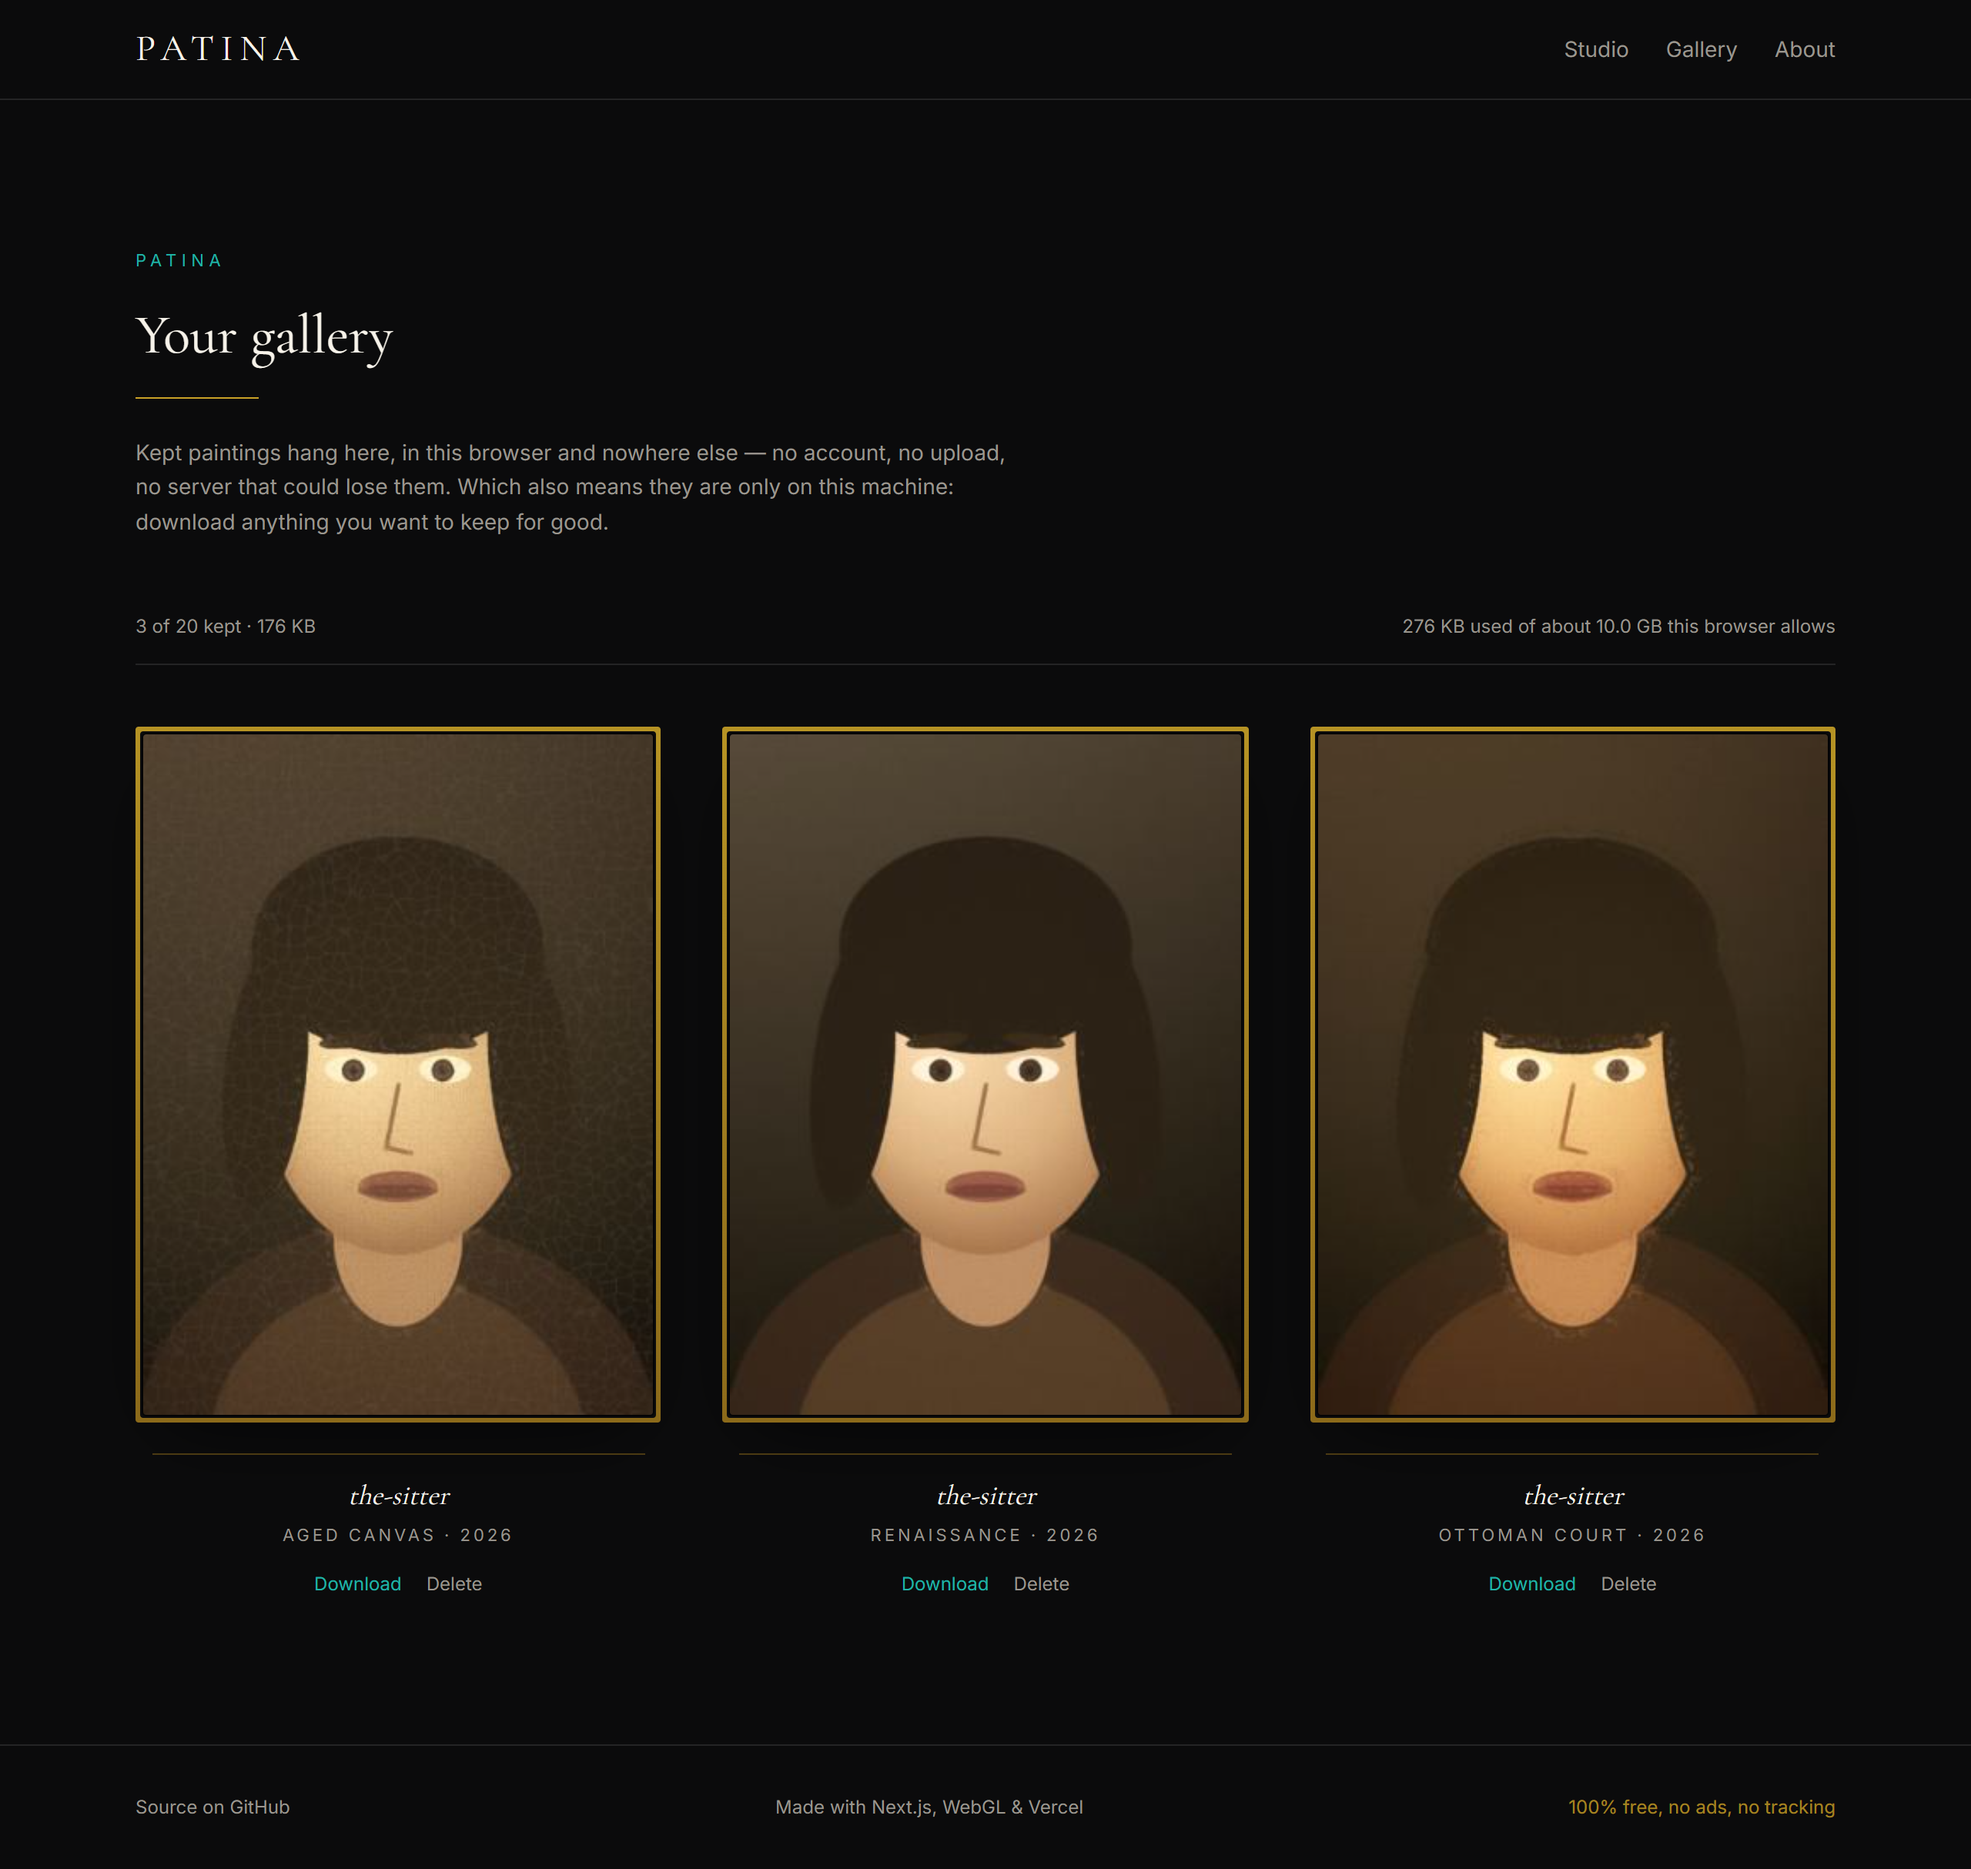
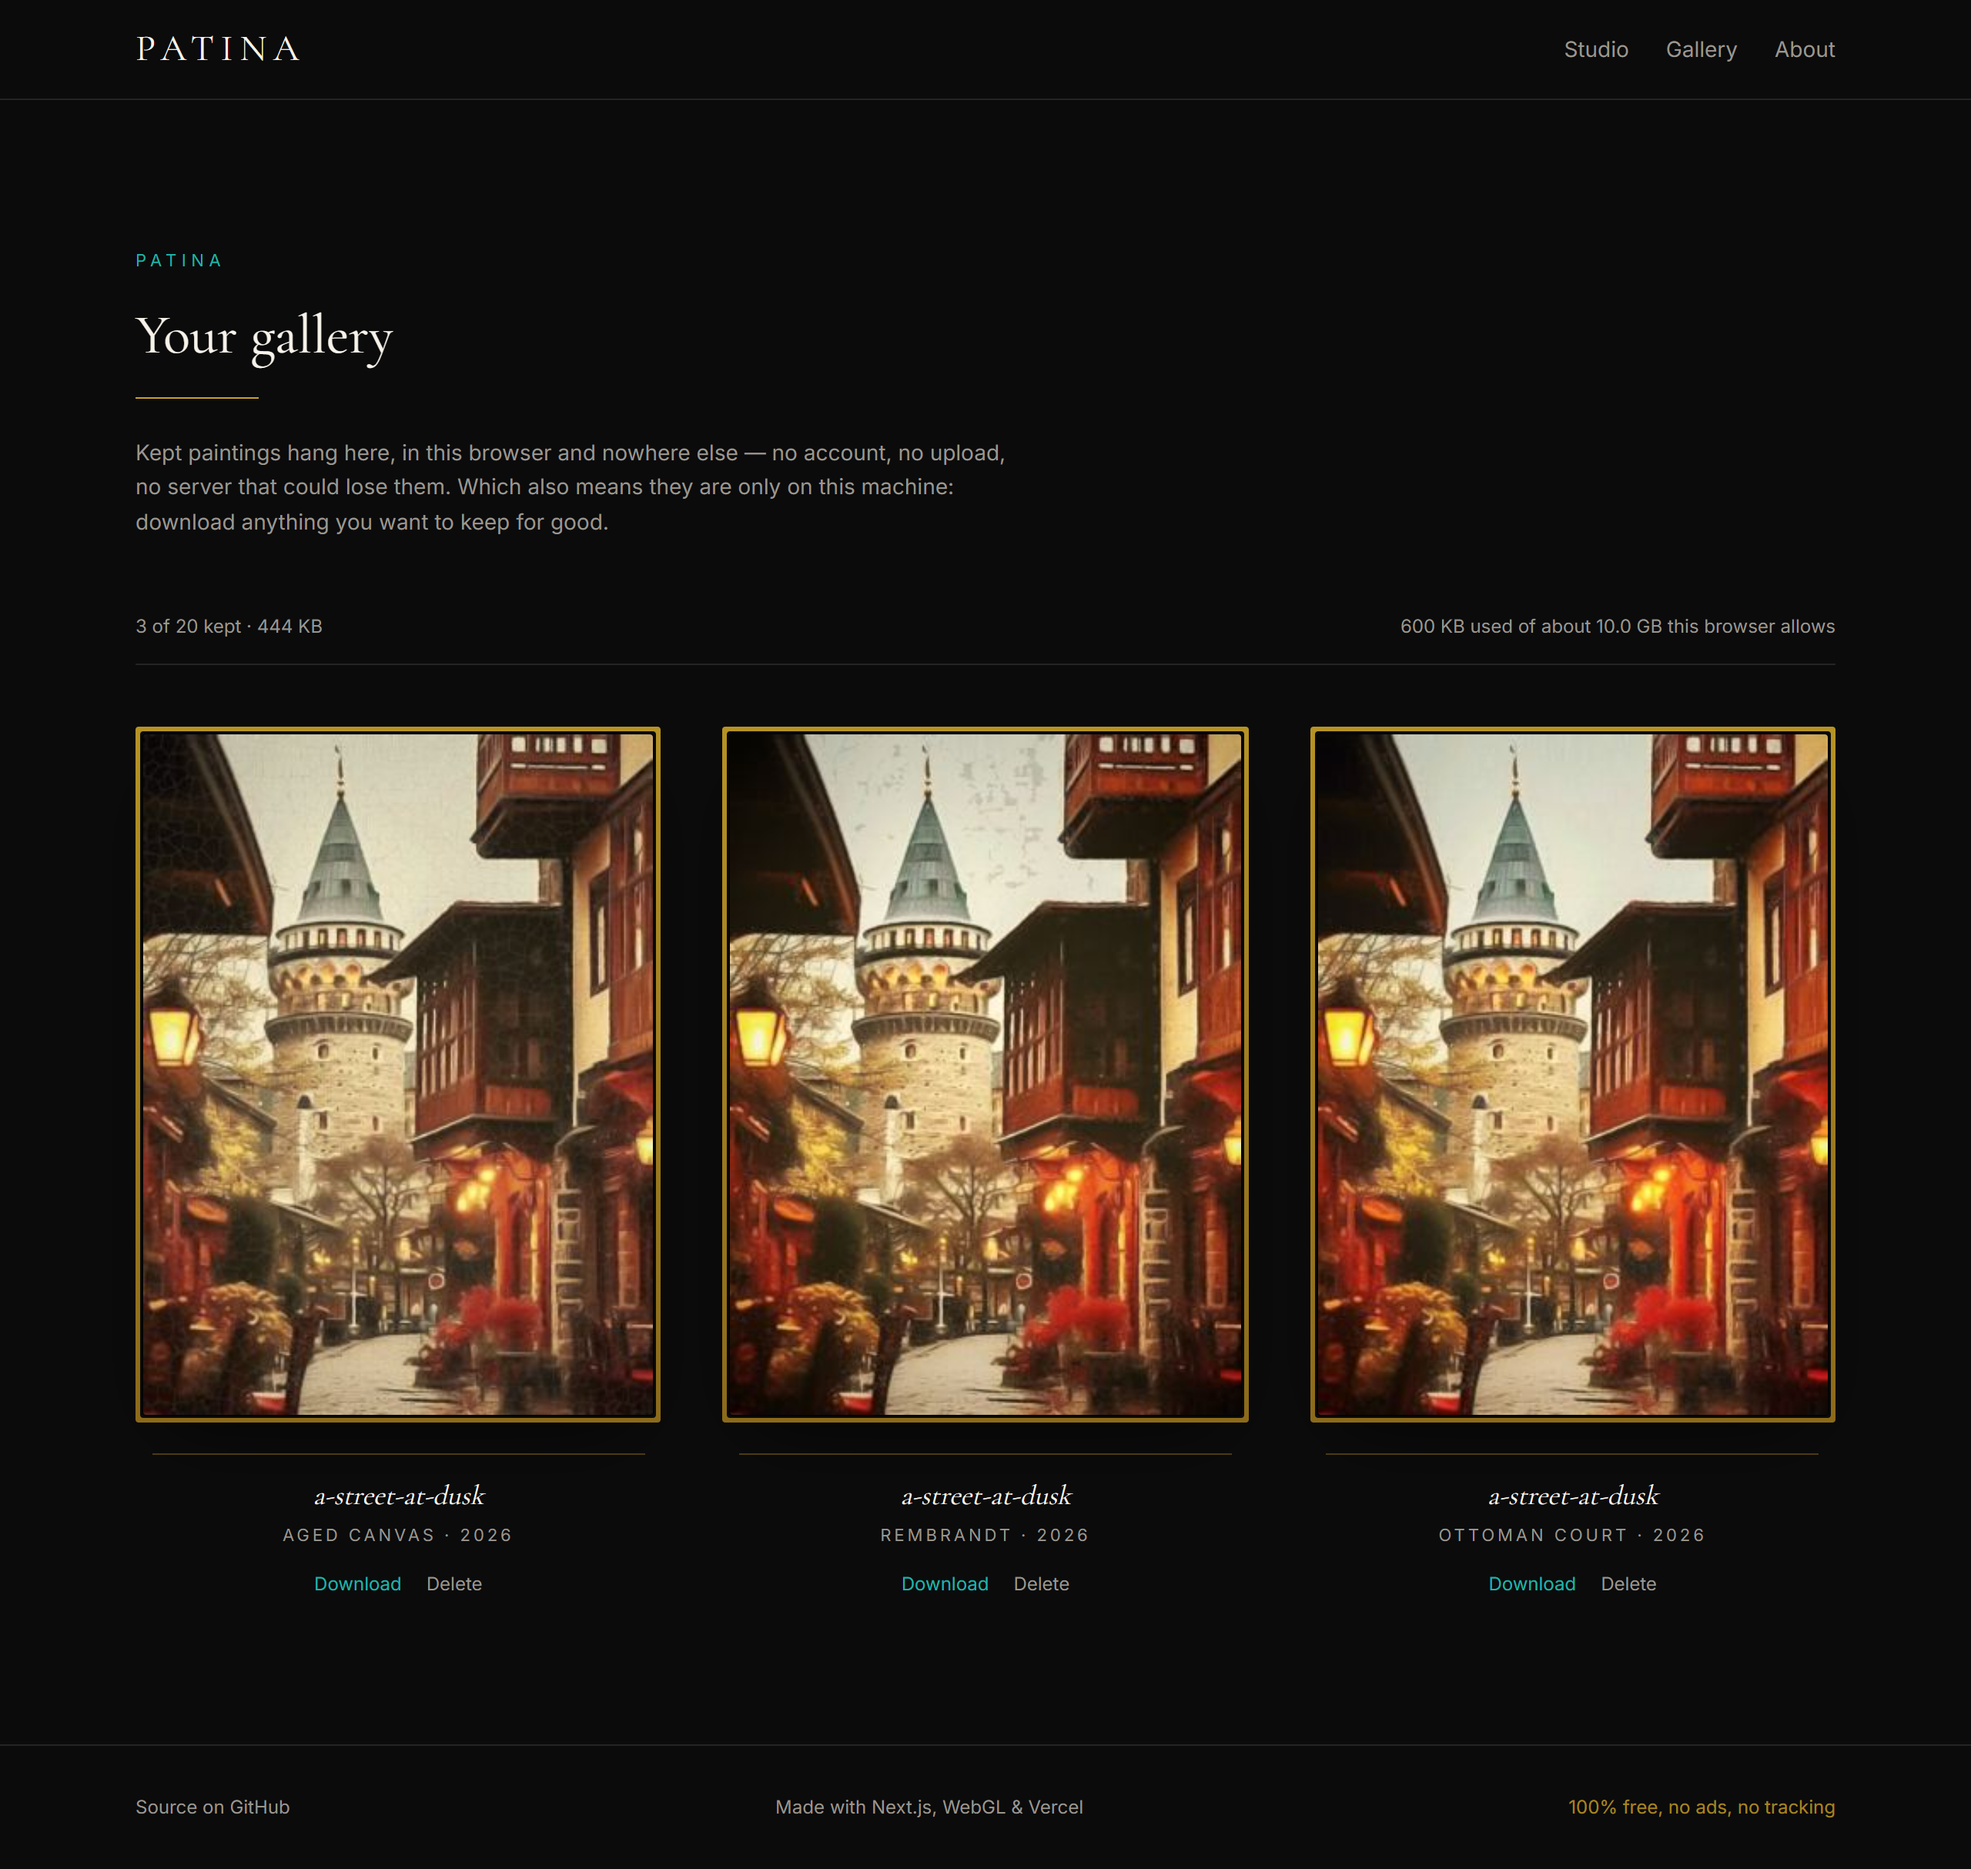
feat(landing): the example is the engine's own work now
SampleArtwork was a hand-drawn SVG, put there in FAZ 1 because the engine
did not exist yet, and left there long after it did. A site that paints
photographs was showing an imitation of its own output above the fold.

Aliyev supplied a photograph - a cobbled street at dusk below the Galata
tower, which is about the best case this engine has: warm lamps, stone,
wet ground, wood. It was cropped to 3:4 off the bottom so the tower and
the street both survive, then painted on the live site at the Ottoman
Court preset, and the right-hand half came out through the site's own
download button. What the landing page shows is exactly what a visitor
would get.

The split is a clip rather than two boxes side by side, so both halves
occupy the same frame and the seam falls on the same lamp in each.

Lighthouse on the production build with the images in place: 100 across
all four, LCP 0.7s, no layout shift. The uses-responsive-images audit asks
for 94KiB back and is being ignored on purpose - the files are 800px for a
384px slot because retina screens want 2x, and Lighthouse measures at 1x.
Taking that saving would mean a blurry phone.

Also: the README screenshots are the same street now rather than a canvas
drawing, with the gallery showing one photograph under three different
schools; and the five create-next-app SVGs nobody ever referenced are gone
from public/.

Unresolved, and Aliyev's call: whether the photograph is his to publish.

Changed region(s): [[0.0625, 0.3707, 0.9375, 0.834], [0.125, 0.3089, 0.1562, 0.3398]]

diff --git a/components/SampleArtwork.tsx b/components/SampleArtwork.tsx
@@ -1,164 +1,70 @@
-/**
- * Placeholder "before / after" example for the landing page.
- *
- * Drawn as inline SVG on purpose: nothing to download, no layout shift, and it
- * stays sharp at any size. FAZ 3 replaces it with two real photographs once
- * the engine can actually produce the right-hand side.
- *
- * Left half is the photograph (cool, flat, even). Right half is what Patina is
- * aiming at: warm highlights, umber shadows, a canvas weave over the top.
- */
-function Figure({
-  bgTop,
-  bgBottom,
-  skin,
-  skinShadow,
-  hair,
-  cloth,
-}: {
-  bgTop: string;
-  bgBottom: string;
-  skin: string;
-  skinShadow: string;
-  hair: string;
-  cloth: string;
-}) {
-  return (
-    <>
-      <rect x="0" y="0" width="480" height="600" fill={`url(#${bgTop})`} />
-      <rect x="0" y="0" width="480" height="600" fill={`url(#${bgBottom})`} />
-      {/* shoulders */}
-      <path d="M90 600 Q110 440 240 428 Q370 440 390 600 Z" fill={cloth} />
-      {/* neck */}
-      <path d="M205 380 h70 v60 q-35 22 -70 0 Z" fill={skinShadow} />
-      {/* head */}
-      <ellipse cx="240" cy="290" rx="92" ry="112" fill={skin} />
-      {/* shadow side of the face */}
-      <path
-        d="M240 178 a92 112 0 0 1 0 224 a74 112 0 0 0 0 -224 Z"
-        fill={skinShadow}
-        opacity="0.75"
-      />
-      {/* hair */}
-      <path
-        d="M148 288 Q142 168 240 164 Q338 168 332 288 Q320 232 240 222 Q160 232 148 288 Z"
-        fill={hair}
-      />
-    </>
-  );
-}
+import Image from "next/image";
+import photo from "@/public/sample-photo.jpg";
+import painting from "@/public/sample-painting.jpg";
 
+/**
+ * The example on the landing page: one photograph, split down the middle,
+ * with the right half painted.
+ *
+ * This used to be a hand-drawn SVG, put here in FAZ 1 because the engine did
+ * not exist yet. It stayed long after the engine did, which meant a site that
+ * paints photographs was showing an imitation of its own output above the
+ * fold. These two files are the real thing — the right half came out of the
+ * site's own download button, at the Ottoman Court preset, so what a visitor
+ * sees here is exactly what they would get.
+ *
+ * The split is a clip rather than two boxes side by side: both images occupy
+ * the same frame, so the seam falls on the same feature in each half and the
+ * eye can compare a lamp to a lamp.
+ *
+ * Static, with no slider. The studio has a draggable comparison already; this
+ * is a shop window, and a landing page should not need JavaScript to make its
+ * point.
+ */
 export default function SampleArtwork({
   className = "",
 }: {
   className?: string;
 }) {
   return (
-    <svg
-      viewBox="0 0 480 600"
-      className={className}
-      role="img"
-      aria-label="Example: a portrait photograph on the left, the same portrait rendered as an oil painting on the right."
-    >
-      <defs>
-        <linearGradient id="coolTop" x1="0" y1="0" x2="0" y2="1">
-          <stop offset="0%" stopColor="#3a3f47" />
-          <stop offset="100%" stopColor="#1b1d22" />
-        </linearGradient>
-        <linearGradient id="coolBottom" x1="0" y1="0" x2="0" y2="1">
-          <stop offset="0%" stopColor="transparent" />
-          <stop offset="100%" stopColor="#101216" />
-        </linearGradient>
-        <linearGradient id="warmTop" x1="0.2" y1="0" x2="0.9" y2="1">
-          <stop offset="0%" stopColor="#5a4320" />
-          <stop offset="60%" stopColor="#241a0c" />
-          <stop offset="100%" stopColor="#120c05" />
-        </linearGradient>
-        <linearGradient id="warmBottom" x1="0" y1="0" x2="0" y2="1">
-          <stop offset="0%" stopColor="transparent" />
-          <stop offset="100%" stopColor="#0b0702" />
-        </linearGradient>
+    <div className={`relative aspect-3/4 overflow-hidden ${className}`}>
+      <Image
+        src={painting}
+        alt="The same street, repainted by Patina as an oil painting"
+        fill
+        sizes="(max-width: 640px) 100vw, 384px"
+        className="object-cover"
+        placeholder="blur"
+        priority
+      />
 
-        {/* Procedural canvas weave — the same idea the real shader uses. */}
-        <filter id="weave" x="0" y="0" width="100%" height="100%">
-          <feTurbulence
-            type="fractalNoise"
-            baseFrequency="0.9"
-            numOctaves="2"
-            result="noise"
-          />
-          <feColorMatrix type="saturate" values="0" in="noise" result="grey" />
-        </filter>
+      <Image
+        src={photo}
+        alt="A photograph of a cobbled street at dusk"
+        fill
+        sizes="(max-width: 640px) 100vw, 384px"
+        className="object-cover [clip-path:inset(0_50%_0_0)]"
+        placeholder="blur"
+        priority
+      />
 
-        <clipPath id="leftHalf">
-          <rect x="0" y="0" width="240" height="600" />
-        </clipPath>
-        <clipPath id="rightHalf">
-          <rect x="240" y="0" width="240" height="600" />
-        </clipPath>
-
-        <radialGradient id="vignette" cx="0.5" cy="0.42" r="0.75">
-          <stop offset="55%" stopColor="transparent" />
-          <stop offset="100%" stopColor="#000000" stopOpacity="0.75" />
-        </radialGradient>
-      </defs>
-
-      <g clipPath="url(#leftHalf)">
-        <Figure
-          bgTop="coolTop"
-          bgBottom="coolBottom"
-          skin="#9a9ba0"
-          skinShadow="#74767c"
-          hair="#3c3f46"
-          cloth="#2a2d33"
-        />
-      </g>
-
-      <g clipPath="url(#rightHalf)">
-        <Figure
-          bgTop="warmTop"
-          bgBottom="warmBottom"
-          skin="#d9b981"
-          skinShadow="#9a7239"
-          hair="#3f2611"
-          cloth="#241603"
-        />
-        <rect
-          x="240"
-          y="0"
-          width="240"
-          height="600"
-          filter="url(#weave)"
-          opacity="0.12"
-          style={{ mixBlendMode: "overlay" }}
-        />
-        <rect x="240" y="0" width="240" height="600" fill="url(#vignette)" />
-      </g>
-
-      {/* the seam between the two halves */}
-      <line x1="240" y1="0" x2="240" y2="600" stroke="#c9a227" strokeWidth="1.5" />
-
-      <text
-        x="20"
-        y="572"
-        fill="#9a968e"
-        fontSize="15"
-        letterSpacing="4"
-        fontFamily="var(--font-inter), sans-serif"
+      {/* The seam, and the two labels that say which side is which. */}
+      <div
+        aria-hidden
+        className="absolute inset-y-0 left-1/2 w-px -translate-x-1/2 bg-gold/80"
+      />
+      <span
+        aria-hidden
+        className="absolute bottom-3 left-3 text-[10px] uppercase tracking-[0.25em] text-white/80 drop-shadow-[0_1px_3px_rgba(0,0,0,0.9)]"
       >
-        PHOTO
-      </text>
-      <text
-        x="460"
-        y="572"
-        fill="#c9a227"
-        fontSize="15"
-        letterSpacing="4"
-        textAnchor="end"
-        fontFamily="var(--font-inter), sans-serif"
+        Photo
+      </span>
+      <span
+        aria-hidden
+        className="absolute right-3 bottom-3 text-[10px] uppercase tracking-[0.25em] text-gold drop-shadow-[0_1px_3px_rgba(0,0,0,0.9)]"
       >
-        PATINA
-      </text>
-    </svg>
+        Patina
+      </span>
+    </div>
   );
 }

diff --git a/app/page.tsx b/app/page.tsx
@@ -73,7 +73,7 @@ export default function Home() {
             <SampleArtwork className="block w-full" />
           </GoldFrame>
           <Plaque
-            title="Portrait of a Stranger"
+            title="A Street at Dusk"
             style="Ottoman Court"
             date="Example"
           />
